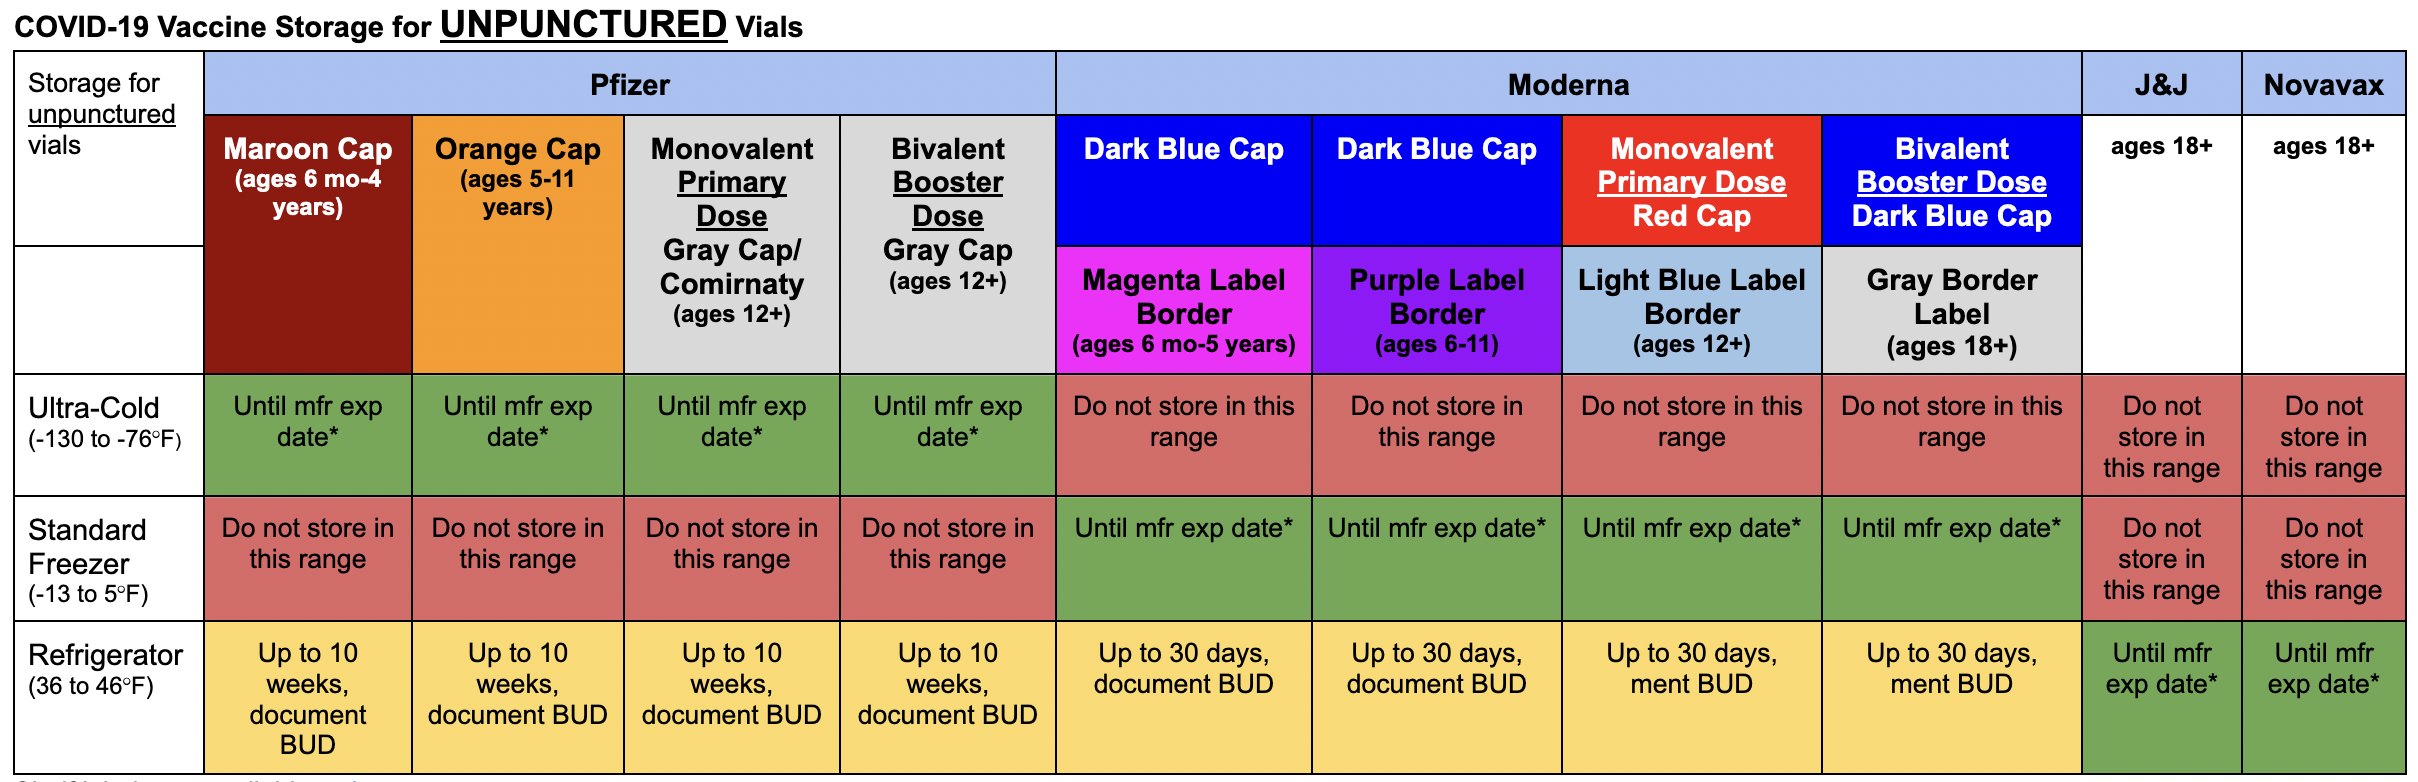
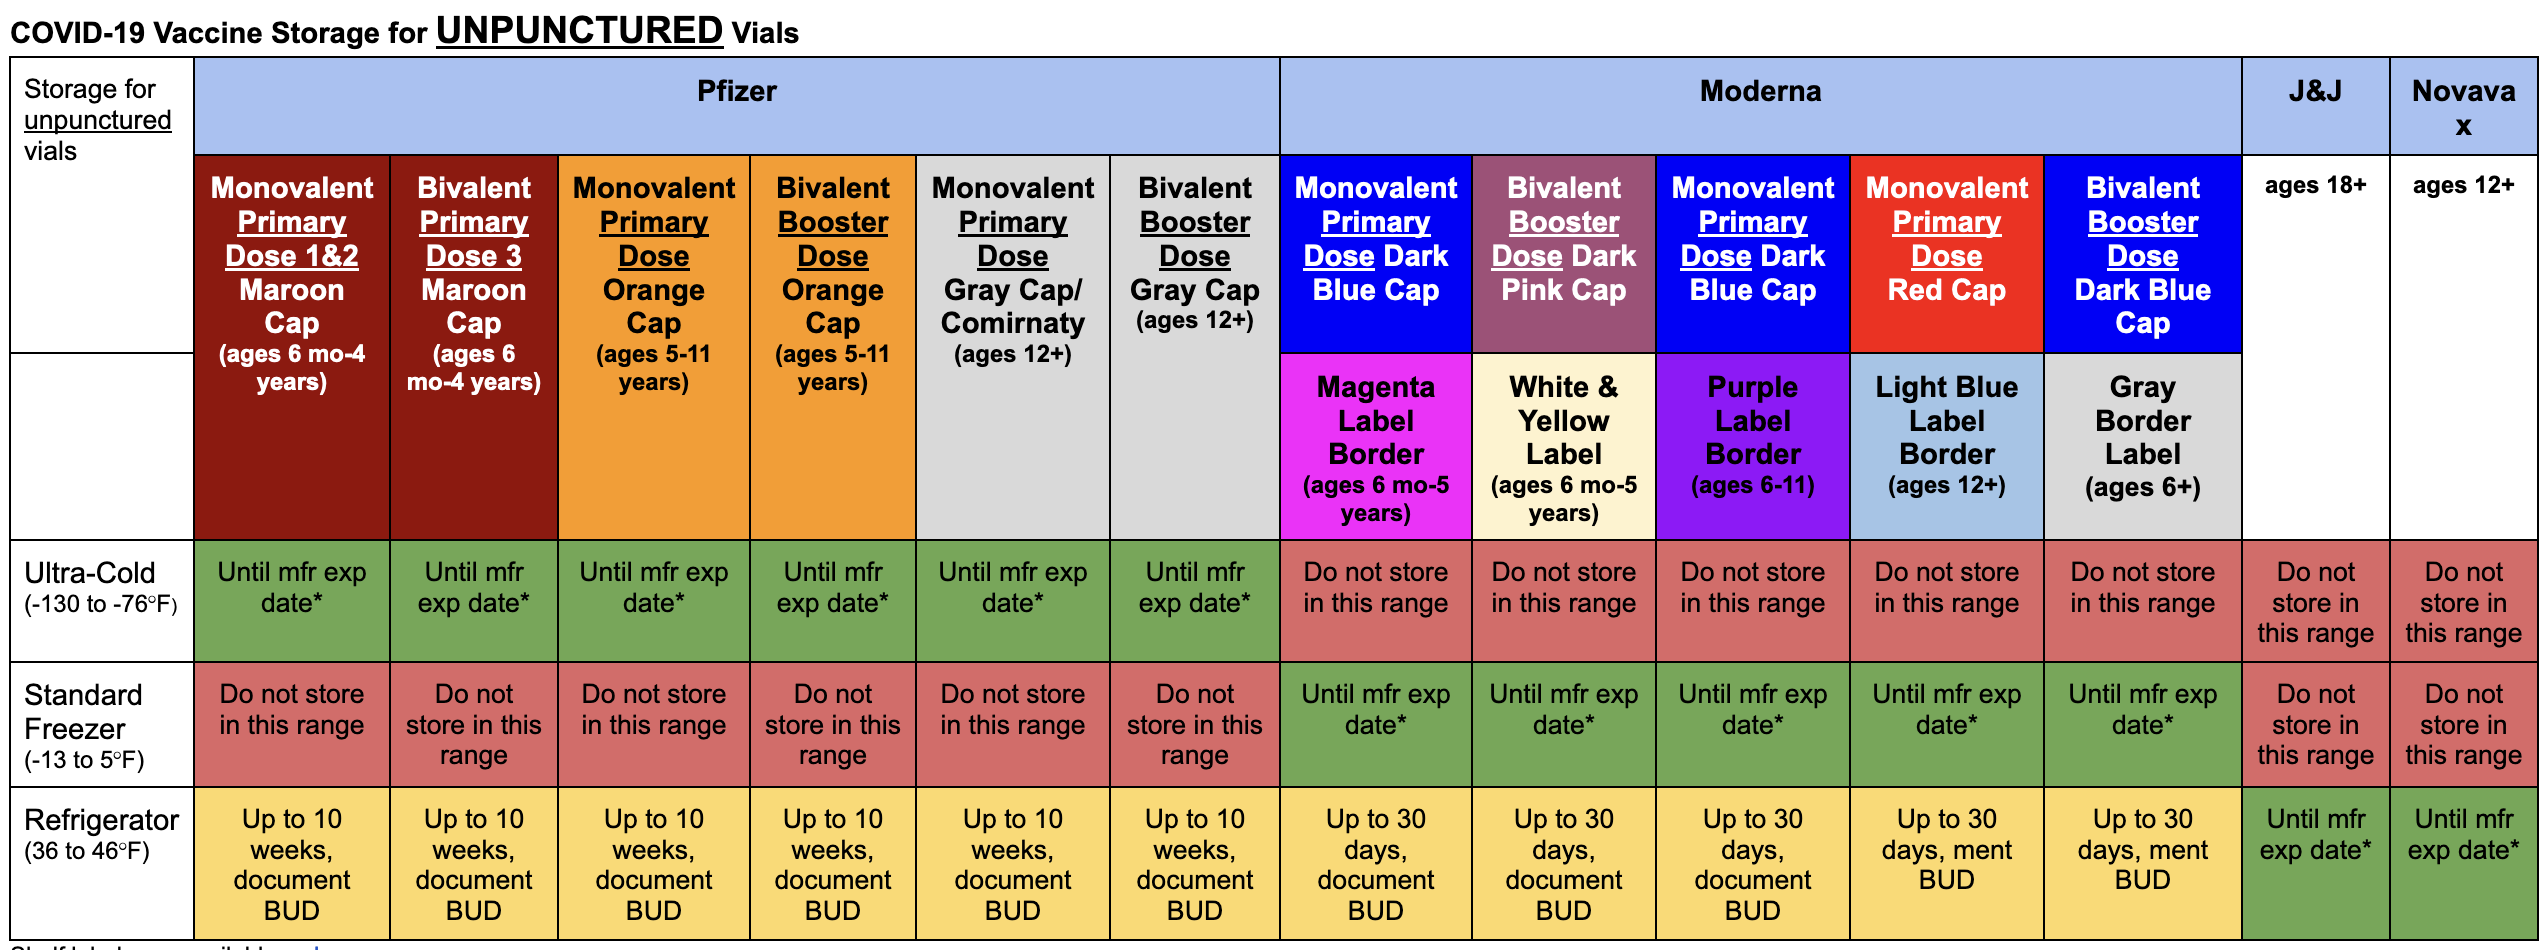
Updated covid vaccines to include bivalent tots.

diff --git a/client/src/components/pages/vaccines/Imm.js b/client/src/components/pages/vaccines/Imm.js
@@ -51,7 +51,7 @@ const Tots = () => {
     return(
         <section>
             <p></p>
-            <p><img src="images/imm_tots.png" alt = "Tots" width="50%"/></p>
+            <p><img src="images/imm_totsbiv.png" alt = "Tots" width="60%"/></p>
 
         </section>
     )
@@ -61,7 +61,9 @@ const Peds = () => {
     return(
         <section>
             <p></p>
-            <p><img src="images/imm_peds.png" alt = "Peds" width="50%"/></p>
+            <img src="images/imm_5biv.png" alt = "Fives" width="60%"/>
+            <br></br>
+            <img src="images/imm_pedsbiv.png" alt = "Peds" width="60%"/>
             
 
         </section>
@@ -72,7 +74,7 @@ const Adults = () => {
     return(
         <section>
             <p></p>
-            <p><img src="images/imm_adults.png" alt = "Adults" width="50%"/></p>
+            <p><img src="images/imm_adultsbiv.png" alt = "Adults" width="50%"/></p>
             
         </section>
     )
@@ -82,7 +84,7 @@ const JJ = () => {
     return(
         <section>
             <p></p>
-            <p><img src="images/imm_jj.png" alt = "J&J" width="50%"/></p>
+            <p><img src="images/imm_jjbiv.png" alt = "J&J" width="50%"/></p>
         </section>
     )
 }

diff --git a/client/src/components/pages/vaccines/Most.js b/client/src/components/pages/vaccines/Most.js
@@ -49,7 +49,7 @@ const Tots = () => {
     return(
         <section>
             <p></p>
-            <img src="images/most_tots.png" alt = "Tots" width="60%"/>
+            <img src="images/most_totsbiv.png" alt = "Tots" width="60%"/>
         </section>
     )
 }
@@ -58,7 +58,9 @@ const Peds = () => {
     return(
         <section>
             <p></p>
-            <img src="images/most_peds.png" alt = "Peds" width="60%"/>
+            <img src="images/most_5biv.png" alt = "Fives" width="60%"/>
+            <br></br>
+            <img src="images/most_pedsbiv.png" alt = "Peds" width="60%"/>
         </section>
     )
 }
@@ -67,7 +69,7 @@ const Adults = () => {
     return(
         <section>
             <p></p>
-            <img src="images/most_adults.png" alt = "Adults" width="60%"/>
+            <img src="images/most_adultsbiv.png" alt = "Adults" width="60%"/>
         </section>
     )
 }
@@ -76,7 +78,7 @@ const JJ = () => {
     return(
         <section>
             <p></p>
-            <img src="images/most_jj.png" alt = "J&J" width="60%"/>
+            <img src="images/most_jjbiv.png" alt = "J&J" width="60%"/>
         </section>
     )
 }

diff --git a/client/src/components/pages/vaccines/Vaccine.js b/client/src/components/pages/vaccines/Vaccine.js
@@ -28,7 +28,7 @@ const Vaccine = () => {
 
             <Line width = "100%"/>
 
-            <h1 onClick= {handleShowItem} name = "cov" style = {{textDecoration: "underline", cursor: "pointer", color: "#574D68"}}>Covid-19 Guidelines</h1>
+            <h1 onClick= {handleShowItem} name = "cov" style = {{textDecoration: "underline", cursor: "pointer", color: "#574D68"}}>Covid-19 Guidelines (last update: 12/13)</h1>
             <div className = "item">{showItem.cov === true ? <Cov handleShowItem = {handleShowItem}/> : null }</div>
 
             <Line width = "100%"/>
